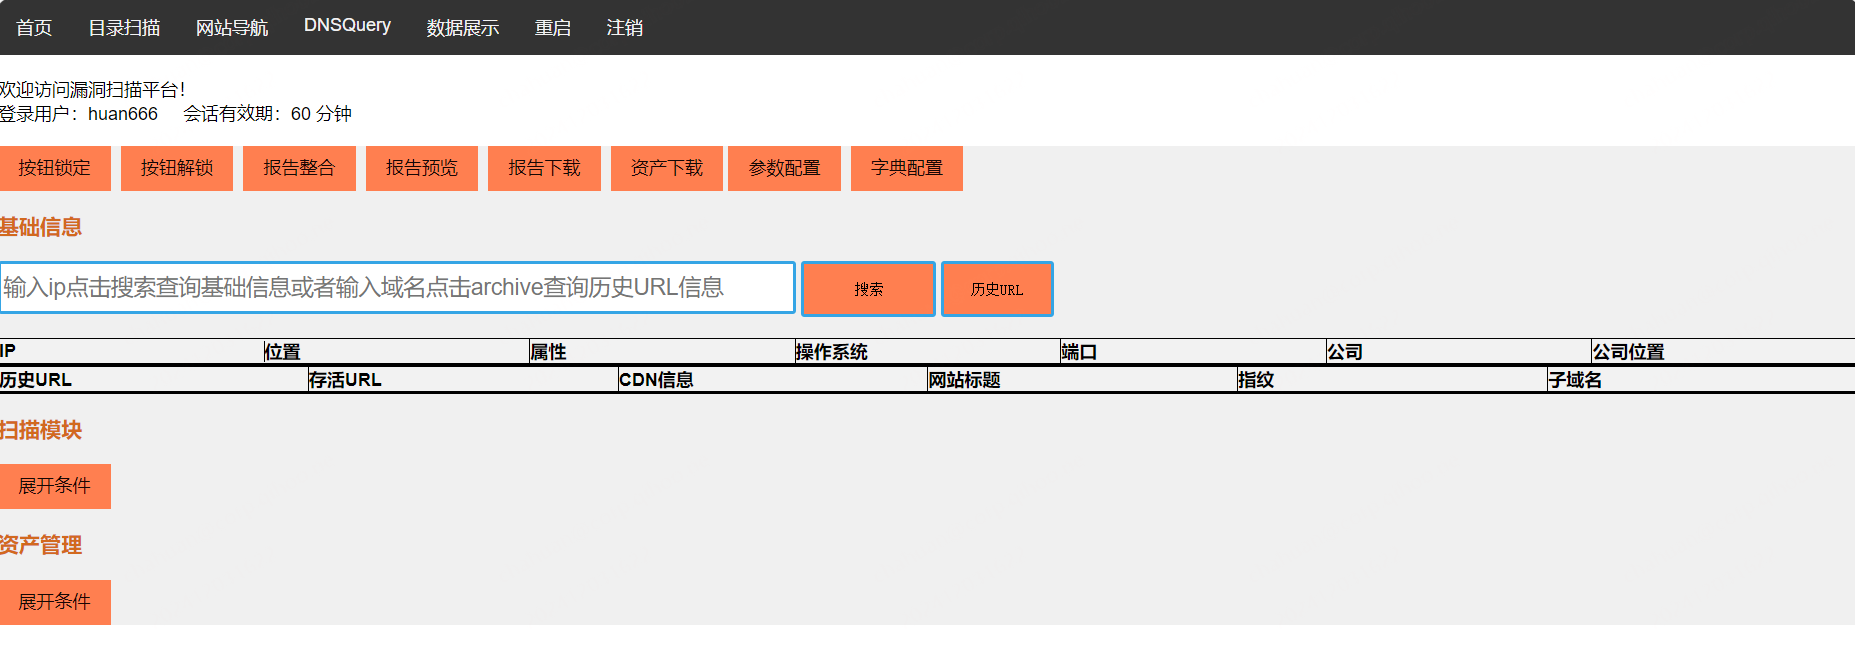
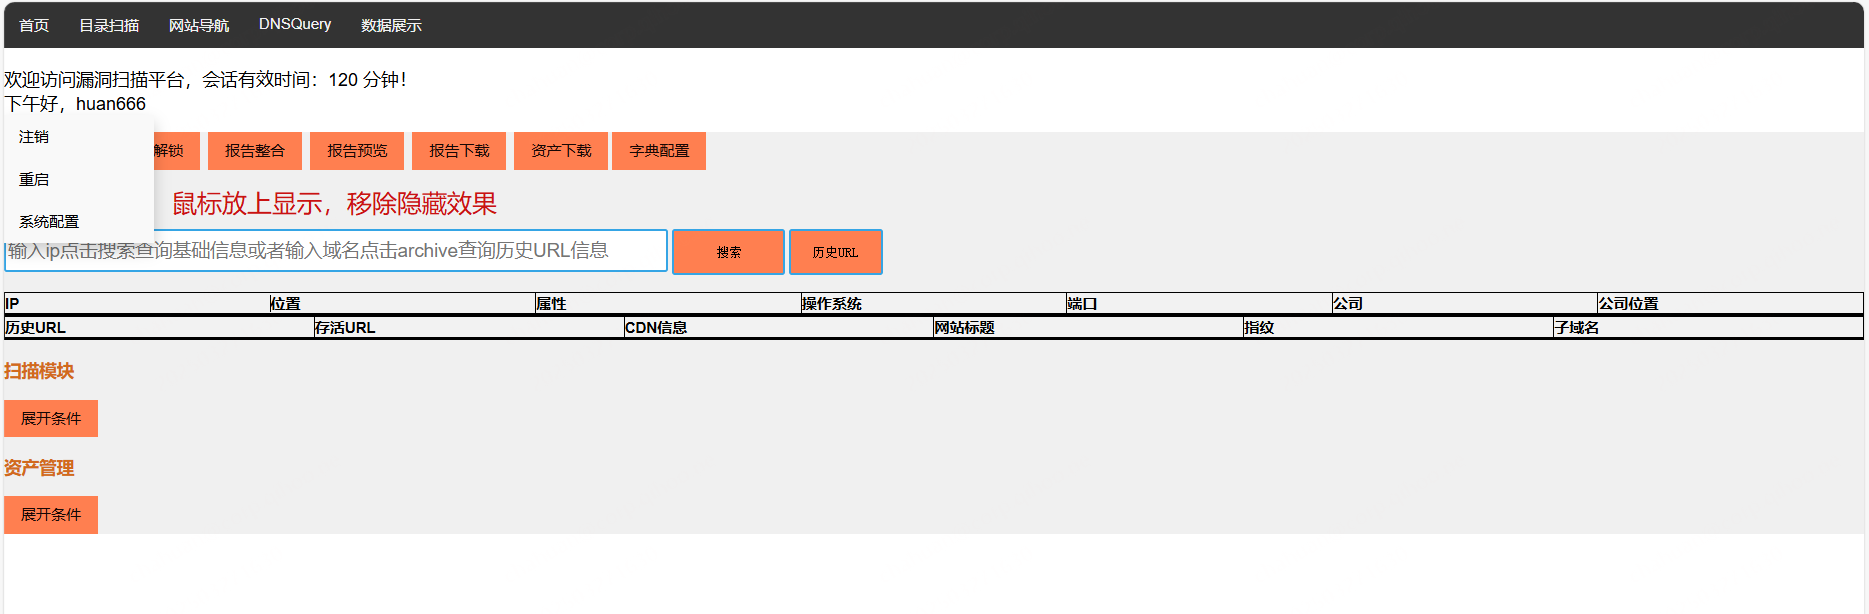
系统优化

Changed region(s): [[0.0, 0.2166, 1.0, 0.9593], [0.0, 0.0, 1.0, 0.1857]]

diff --git a/templates/index.html b/templates/index.html
@@ -18,13 +18,23 @@
 		<a href="/siteroute/" target="_blank">网站导航</a>
 		<a href="#dnslog" onclick="dnslogfunc()">DNSQuery</a>
 		<a href="#data" onclick="openModal()">数据展示</a>
-		<a href="#rebootserver" onclick="restart_service_func()">重启</a>
-		<a href="#siginout" onclick="signoutfunc()">注销</a>
+		
+
 	</div>
 	<div class="content">
-		<span align="left">欢迎访问漏洞扫描平台！</span> <br>
-		<span align="right">登录用户：{{data20}}</span> &nbsp;&nbsp;&nbsp;
-		<spap>会话有效期：{{data22}} 分钟</spap>
+		<span style="display: block; text-align: left;font-size: larger;">欢迎访问漏洞扫描平台，会话有效时间：{{data22}} 分钟！</span>
+
+		<div class="dropdown">
+			<span class="dropdown-span">{{data30}}，{{data20}}</span>
+			<div class="dropdown-content">
+				<a href="#siginout" onclick="signoutfunc()">注销</a>
+				<a href="#rebootserver" onclick="restart_service_func()">重启</a>
+				<a href="#systemconfig" onclick="startscanconfigpagefunc()">系统配置</a>
+			</div>
+		</div>
+
+
+
 		{% include 'tanchuang.html' %}
 		<br><br>
 		<div class="button-container">
@@ -35,7 +45,7 @@
 			<span class="my-spanconfig11" onclick="total_report_yulan_func()">报告预览</span>&nbsp;
 			<span class="my-spanconfig11" onclick="reportdownloadfunc()">报告下载</span>&nbsp;
 			<span class="my-spanconfig11" onclick="assetdownloadfunc()">资产下载</span>
-			<span onclick="startscanconfigpagefunc()" style="cursor: pointer;" class="my-spanconfig11">系统配置</span>&nbsp;
+			<!-- <span onclick="startscanconfigpagefunc()" style="cursor: pointer;" class="my-spanconfig11">系统配置</span>&nbsp; -->
 			<span onclick="hydradictfunc()" style="cursor: pointer;" class="my-spanconfig11">字典配置</span>
 
 			</di>

diff --git a/static/css/common.css b/static/css/common.css
@@ -709,3 +709,40 @@
 			text-decoration: none;
 			cursor: pointer;
 		}
+
+		/* 个人中心鼠标悬停实现效果 */
+		.dropdown {
+			position: relative;
+			display: inline-block;
+			text-align: right;
+		}
+		
+		.dropdown-content {
+			display: none;
+			position: absolute;
+			background-color: #f9f9f9;
+			min-width: 160px;
+			box-shadow: 0px 8px 16px 0px rgba(0,0,0,0.2);
+			z-index: 1;
+			text-align: right;
+		}
+		
+		.dropdown-content a {
+			color: black;
+			padding: 12px 16px;
+			text-decoration: none;
+			display: block;
+			text-align: left;
+		}
+		
+		.dropdown-content a:hover {
+			background-color: #f1f1f1;
+		}
+		
+		.dropdown:hover .dropdown-content {
+			display: block;
+		}
+		.dropdown-span {
+			cursor: pointer;
+			font-size: larger;
+		}

diff --git a/scan_main_web.py b/scan_main_web.py
@@ -1,8 +1,4 @@
-# Description:[主系统]
-# Author:[huan666]
-# Date:[2023/11/15]
-# update:[2024/9/23]
-
+#!/usr/bin/python3
 from flask import Flask, render_template,request
 from flask import session
 from flask import redirect
@@ -93,6 +89,8 @@ import json
 from config import verification_fingerprint_recognition
 
 import shodan
+
+from vuln_lib import get_time_period_lib
 
 app = Flask(__name__,template_folder='./templates') 
 app.config.from_pyfile('config_session.py')
@@ -255,11 +253,12 @@ def ipscaninterface():
             ipstatus = basic.ipstatus_scan(ip)
         except:
             pass
-    
+        
+        period_time = get_time_period_lib()
     
         return render_template('index.html',data1=data1,data2=ip,data3=data3,data4=data4
         ,data5=localtion_list_result,data6=port,data7=history_domain,data8=os_type,data9=cdn_list
-        ,data10=site_title_list_result,data11=subdomain_list,data12=ipstatus,data13=companylocation,data20=str(user))
+        ,data10=site_title_list_result,data11=subdomain_list,data12=ipstatus,data13=companylocation,data20=str(user),data30 = str(period_time))
     else:
         return render_template('login.html')
 
@@ -271,7 +270,8 @@ def index():
         # asset_file_list = basic.list_files_in_directory()
         asset_file_list = basic.fofa_grammar_lib()
         session_time = basic.select_session_time_lib(1)
-        return render_template('index.html',data20=str(user),data21=asset_file_list,data22=str(session_time))
+        period_time = get_time_period_lib()
+        return render_template('index.html',data20=str(user),data21=asset_file_list,data22=str(session_time),data30 = str(period_time))
     else:
         return render_template('login.html')
 

diff --git a/vuln_lib.py b/vuln_lib.py
@@ -1,4 +1,4 @@
-#!/usr/bin/python
+#!/usr/bin/python3
 '''
 未覆盖文件上传类POC
 1. ES数据库漏洞POC
@@ -1112,6 +1112,21 @@ def bcrypt_decrypt():
                     print("密文："+str(passwd.decode('utf-8'))+"\n"+"明文："+str(dict.decode('utf-8')))
             except:
                 pass
+
+
+# 获取时间期，上午、中午、下午、晚上
+def get_time_period_lib():
+    now = datetime.now()
+    hour = now.hour
+    if 5 <= hour < 12:
+        period_result = "上午好"
+    elif 12 <= hour < 14:
+        period_result = "中午好"
+    elif 14 <= hour < 18:
+        period_result = "下午好"
+    else:
+        period_result = "晚上好"
+    return period_result
 
 
 

diff --git a/basic.py b/basic.py
@@ -1,8 +1,4 @@
-# Description:[系统调用第三方接口文件]
-# Author:[huan666]
-# Date:[2024/05/28]
-# update:[2024/9/12]
-
+#!/usr/bin/python3
 # shodan查询模块
 import shodan
 import queue
@@ -3509,7 +3505,6 @@ def antivirus_soft_show():
     return result_list
 
            
-
 
 
 

diff --git a/readme.md b/readme.md
@@ -64,6 +64,12 @@ mysql账号密码：admin/123456<br>
 <h2>更新日志：</h2>
 <ul>
 <li>
+2025-3-27更新<br> 
+1.新增时间段显示，上午、中午、下午、晚上；<br>
+2.前端页面优化，注销、重启、系统配置，修改到鼠标放用户名显示，移除消失效果；<br>
+3.已知问题处理与优化；<br>
+</li>
+<li>
 2025-3-19更新<br> 
 1.docker版本平台环境更新；<br>
 2.已知问题处理与优化；<br>
